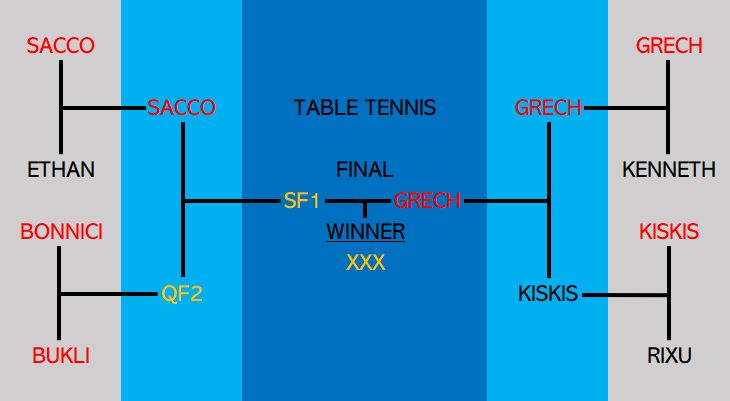
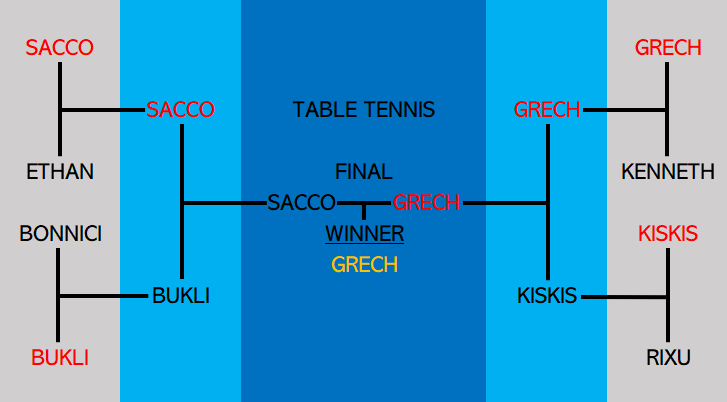
02-11

diff --git a/index.html b/index.html
@@ -332,7 +332,7 @@
         color: #333;
         text-align: left;
         ">
-        <h2 style="margin-top: 0;">🗳 - Inħabbru:</h2>
+        <h2 style="margin-top: 0;">✅ - Uffiċjali:</h2>
         <p style="font-size: 18px; line-height: 1.6;">
                 Daniel Grech jirbaħ l-ewwel Halloween Heist.
         </p>
@@ -390,7 +390,7 @@
                 </a>
         </div>
 -->
-<!--
+
     <div style="
         background-color: #000000;
         color: #00ff00;
@@ -404,8 +404,10 @@
         box-shadow: 0 0 15px #00ff00;
         animation: pulse 2s infinite;
         ">
-            BIG weekend in the Quad-Sport Tournament!<br><br>
-            Check out the brackets and table.<br><br>
+            Only POKER remains in the Quad-Sport Tournament!<br><br>
+            <span style="color: gold;">Sacco wins in Billiard</span><br><br>
+            <span style="color: gold;">Rixu wins in Darts</span><br><br>
+            <span style="color: gold;">Grech wins in Table Tennis</span><br><br>
             <a href="tournament.html">
                 <button style="background-color: #000000;
                     color: #00ff00;
@@ -421,7 +423,7 @@
                 </button>
             </a>
     </div>
--->
+
 <!--
 	<a href="olympics.html">
     	    <button style="background-color: #000000;
@@ -455,15 +457,15 @@
     </h2>
     <div class="images-container">
         <div>
-            <div class="image-title">26/10 - paġna 1</div>
-                <img src="news/26-10 pg1.png" alt="Image 1" style="border: 5px solid blue;">
+            <div class="image-title">02/11</div>
+                <img src="news/02-11.png" alt="Image 1" style="border: 5px solid blue;">
         </div>
-        
+        <!--
 	    <div>
 	        <div class="image-title">26/10 - paġna 2</div>
                 <img src="news/26-10 pg2.png" alt="Image 2" style="border: 5px solid blue;">
 	    </div>
-        
+        -->
     </div>
 
     <hr class="divider">

diff --git a/tournament.html b/tournament.html
@@ -238,10 +238,10 @@
                     </tr>
                 </thead>
                 <tbody>
-                    <tr><td>Grech</td><td>7</td></tr>
+                    <tr><td>Grech</td><td>9</td></tr>
+                    <tr><td>Sacco</td><td>8</td></tr>
                     <tr><td>Rixu</td><td>5</td></tr>
-                    <tr><td>Sacco</td><td>4</td></tr>
-                    <tr><td>Bukli</td><td>3</td></tr>
+                    <tr><td>Bukli</td><td>4</td></tr>
                     <tr><td>Ethan</td><td>2</td></tr>
                     <tr><td>Kiskis</td><td>2</td></tr>
                     <tr><td>Bonnici</td><td>0</td></tr>

diff --git a/archive.html b/archive.html
@@ -672,6 +672,16 @@
             </li>
         </ul>
     </div>
+
+    <h3 style="text-align: center; margin-top: 100px;">02/11</h3>
+        <ul style="display: flex; justify-content: center; gap: 20px; list-style: none; padding: 0;">
+            <li>
+                <span></span>
+                <br>
+                <img src="news/02-11.png" alt="02/11">
+            </li>
+        </ul>
+    </div>
 </body>
 </html>
 
